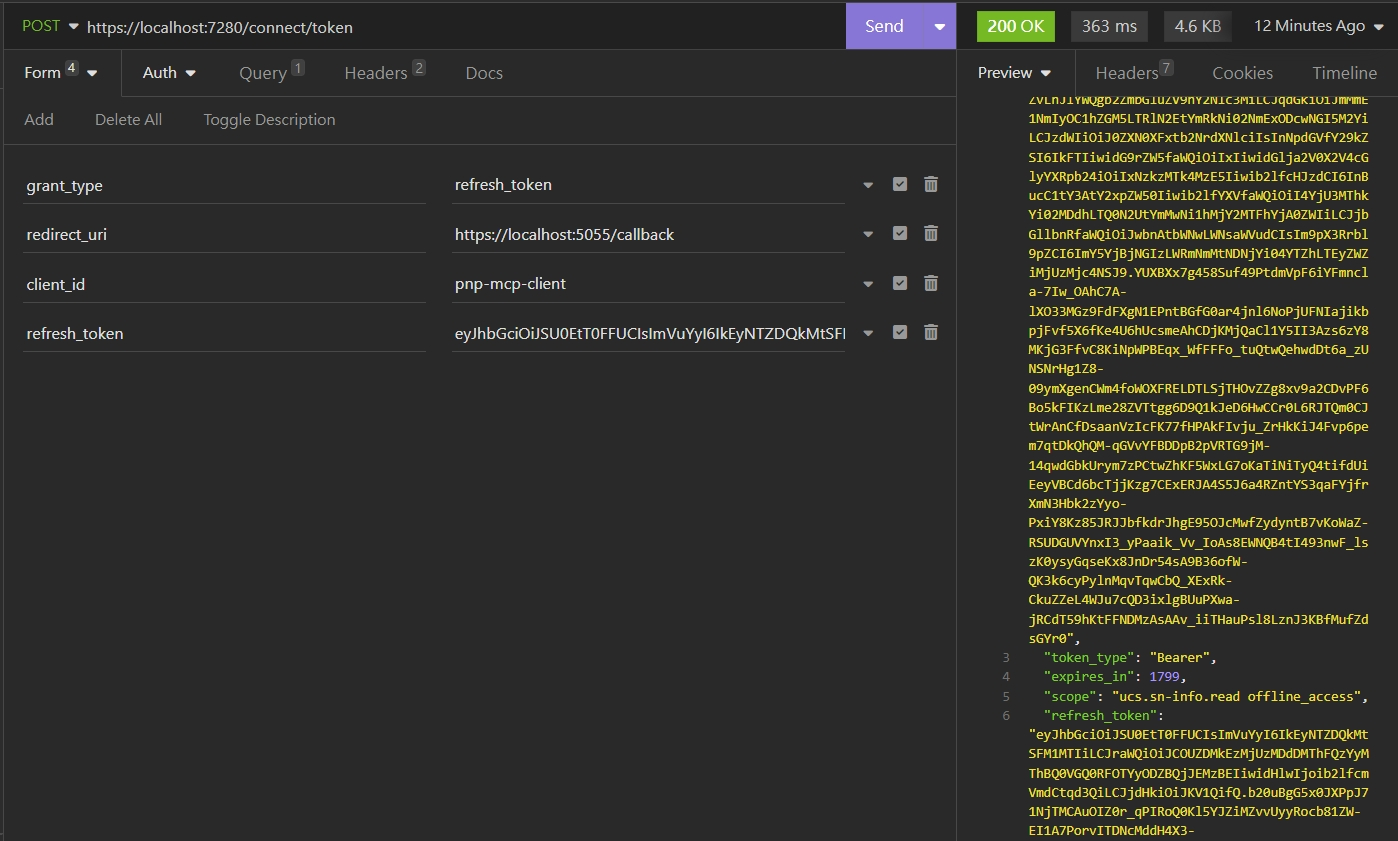
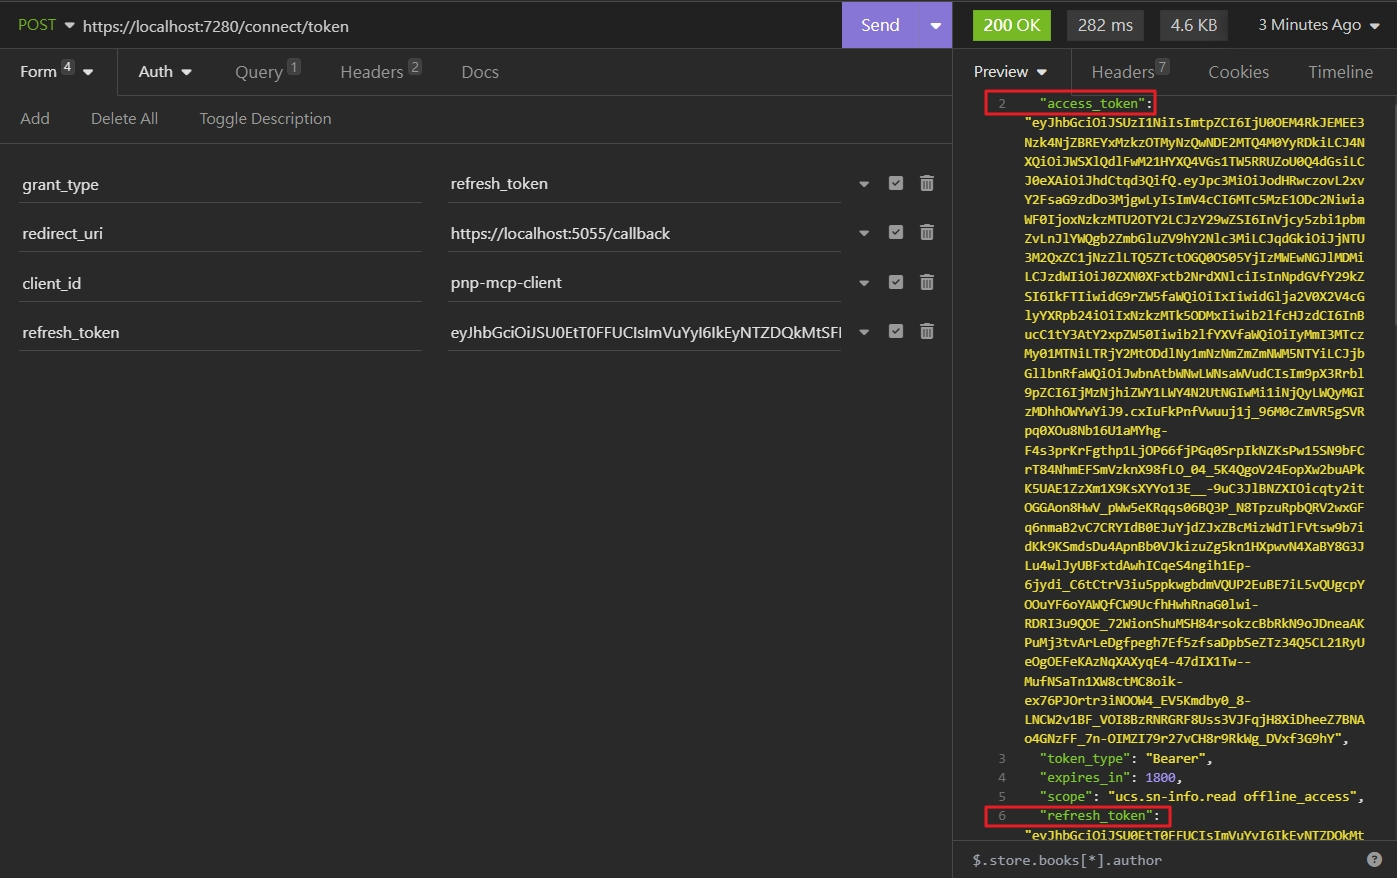
Site updated: 2026-10-28 11:14:01

diff --git a/2026/10/27/OpenIddict-測試/index.html b/2026/10/27/OpenIddict-測試/index.html
@@ -19,7 +19,7 @@
 <meta property="og:image" content="http://example.com/2026/10/27/OpenIddict-%E6%B8%AC%E8%A9%A6/jwt_payload.jpg">
 <meta property="og:image" content="http://example.com/2026/10/27/OpenIddict-%E6%B8%AC%E8%A9%A6/refresh_token.jpg">
 <meta property="article:published_time" content="2026-10-27T07:38:25.000Z">
-<meta property="article:modified_time" content="2026-10-28T03:03:14.815Z">
+<meta property="article:modified_time" content="2026-10-28T03:13:56.248Z">
 <meta property="article:author" content="John Doe">
 <meta property="article:tag" content="OAuth">
 <meta property="article:tag" content="OpenIddict">
@@ -134,7 +134,7 @@
 <li>說明<br>nonce：由上一個步驟302轉址的QueryString取得</li>
 </ul>
 <h1 id="-6"><a href="#-6" class="headerlink" title=""></a></h1><h1 id="-7"><a href="#-7" class="headerlink" title=""></a></h1><h1 id="-8"><a href="#-8" class="headerlink" title=""></a></h1><hr>
-<h2 id="4-呼叫驗證伺服器的api-token-GrantType：Authorization-Code"><a href="#4-呼叫驗證伺服器的api-token-GrantType：Authorization-Code" class="headerlink" title="4. 呼叫驗證伺服器的api [token] (GrantType：Authorization_Code)"></a>4. 呼叫驗證伺服器的api [token] (GrantType：Authorization_Code)</h2><p>模擬MCP Client從用authorization code從驗證伺服器取得access token以及refresh_token。</p>
+<h2 id="4-呼叫驗證伺服器的api-token-GrantType：Authorization-Code"><a href="#4-呼叫驗證伺服器的api-token-GrantType：Authorization-Code" class="headerlink" title="4. 呼叫驗證伺服器的api [token] (GrantType：Authorization_Code)"></a>4. 呼叫驗證伺服器的api [token] (GrantType：Authorization_Code)</h2><p>模擬MCP Client從用authorization code從驗證伺服器取得<span style="color: red;">access token以及refresh_token。</span></p>
 <img src="/2026/10/27/OpenIddict-%E6%B8%AC%E8%A9%A6/token.jpg" class="" title="token">
 
 <p>acess_token為JWT，可以用工具解析payload內容。</p>
@@ -144,7 +144,7 @@
 <li>說明<br>code：由上一個步驟302轉址的QueryString取得<br>code_verifier：步驟1.產生的code_verifier</li>
 </ul>
 <h1 id="-9"><a href="#-9" class="headerlink" title=""></a></h1><h1 id="-10"><a href="#-10" class="headerlink" title=""></a></h1><h1 id="-11"><a href="#-11" class="headerlink" title=""></a></h1><hr>
-<h2 id="5-呼叫驗證伺服器的api-token-GrantType：Refresh-Token"><a href="#5-呼叫驗證伺服器的api-token-GrantType：Refresh-Token" class="headerlink" title="5. 呼叫驗證伺服器的api [token] (GrantType：Refresh_Token)"></a>5. 呼叫驗證伺服器的api [token] (GrantType：Refresh_Token)</h2><p>模擬MCP Client的JWT到期後。不重新登入，直接呼叫api [token]來更新token</p>
+<h2 id="5-呼叫驗證伺服器的api-token-GrantType：Refresh-Token"><a href="#5-呼叫驗證伺服器的api-token-GrantType：Refresh-Token" class="headerlink" title="5. 呼叫驗證伺服器的api [token] (GrantType：Refresh_Token)"></a>5. 呼叫驗證伺服器的api [token] (GrantType：Refresh_Token)</h2><p>模擬MCP Client的JWT到期後。不重新登入，直接呼叫api [token]來取得新的<span style="color: red;">acess_token跟refresh_token</span></p>
 <img src="/2026/10/27/OpenIddict-%E6%B8%AC%E8%A9%A6/refresh_token.jpg" class="" title="refresh_token">
 
 <ul>
